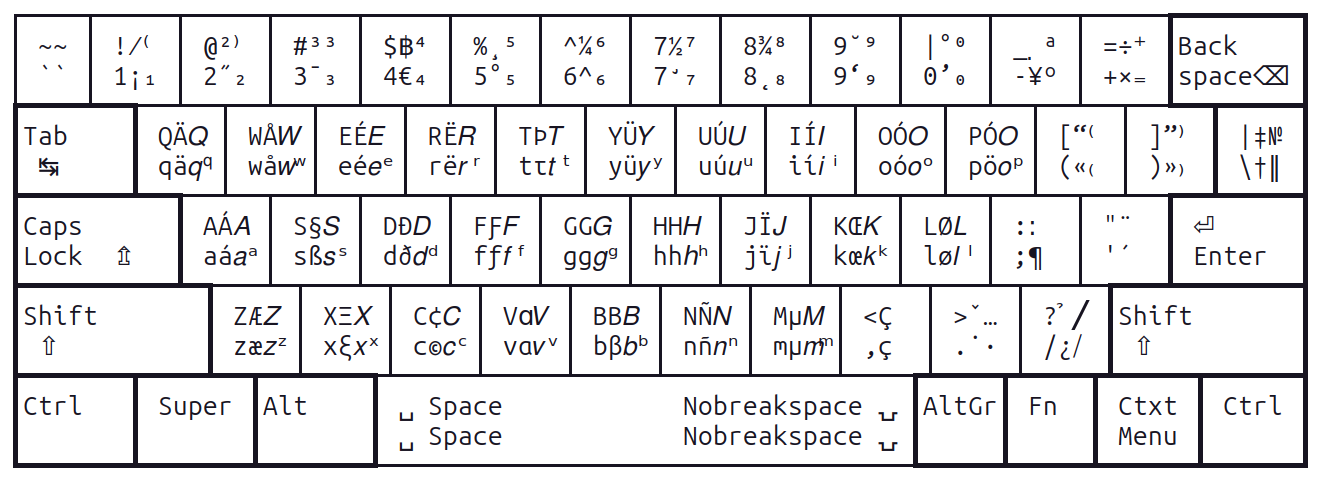
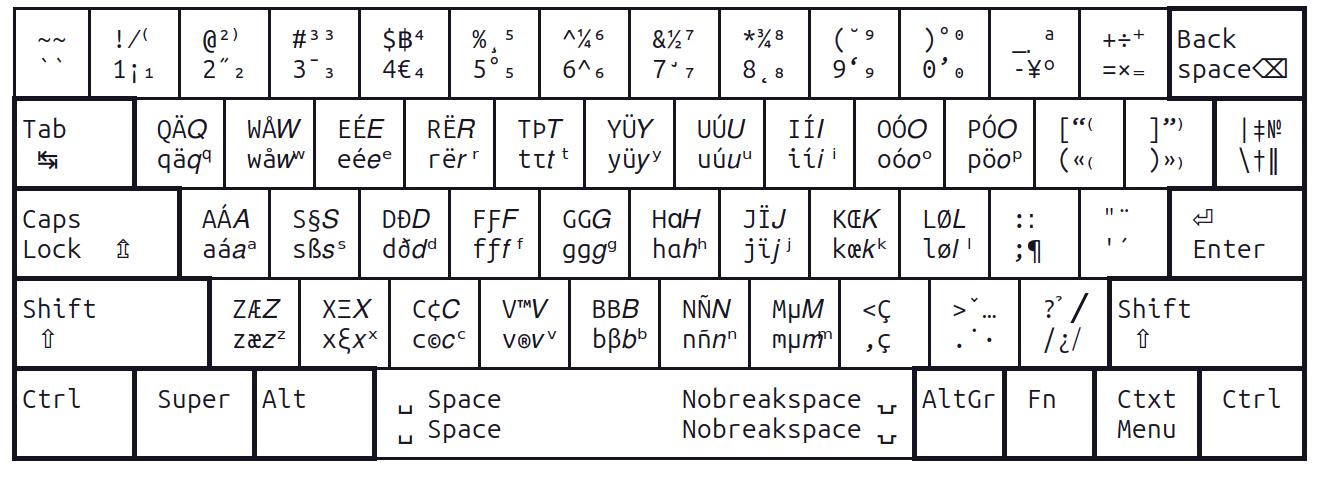
addded registered trademark and trademark, corrected the documents about degree sign

Changed region(s): [[0.0, 0.0, 0.9962, 0.9979], [0.0, 0.8218, 0.0623, 0.8805]]

diff --git a/README.md b/README.md
@@ -34,8 +34,10 @@ These symbols are organized into 4 columns. The first column of symbols is gener
 
 ## Usage
 
+This table only covers the usage of additions to The "English (intl., with AltGr dead keys)" layout.
+
 | Symbol Name                  | How to Type Them                      | Examples                                                           |
-|-----------------------------|---------------------------------------|----------------------------------------------------------------------|
+|-----------------------------|---------------------------------------|---------------------------------------------------------------------|
 | Euro Sign (€)               | <kbd>AltGr</kbd> + <kbd>4</kbd>         | "The price is €50."                                                  |
 | Bitcoin (₿)                 | <kbd>AltGr</kbd> + <kbd>Shift</kbd> + <kbd>4</kbd> | "The current value of Bitcoin is ₿1 = $40,000."                       |
 | Greek Letters (α, ξ)        | (Based on key mapping)                | "The angle α is 60°." "The variable ξ represents..."                  |
@@ -46,8 +48,9 @@ These symbols are organized into 4 columns. The first column of symbols is gener
 | Fractional Slash (⁄)        | <kbd>AltGr</kbd> + <kbd>Shift</kbd> + <kbd>1</kbd> | "The ratio is 1⁄4." "The fraction 1⁄7 represents..."                    |
 | Note Symbols† (†, ‡, §, ‖, ¶)| (Based on key mapping)                | "Refer to the note†." "See the section‡." "Paragraph starts with¶."  |
 | Numero Symbol (№)          | <kbd>Win</kbd> + <kbd>Shift</kbd> + <kbd>\\</kbd> | "Product №12345."                                                    |
-| Cardinal Signs (º, ª)       | <kbd>Win</kbd> + <kbd>Shift</kbd> + <kbd>-</kbd> and <kbd>Win</kbd> + <kbd>-</kbd> | "1º lugar." "2ª posición."                                          |
-| Degree Sign (°)             | <kdb>AltGr</kbd> + <kbd>Shift</kbd> + <kbd>0</kbd>                | "The temperature is 25°." "Calle Mayor 10°, Madrid."                 |
+| Cardinal Signs (º, ª)       | <kbd>Win</kbd> + <kbd>-</kbd> and <kbd>Win</kbd> + <kbd>Shift</kbd> + <kbd>-</kbd> | "1º lugar." "2ª posición."                                          |
+| Degree Sign (°)             | <kbd>AltGr</kbd> + <kbd>Shift</kbd> + <kbd>0</kbd>                | "The temperature is 25°." "Calle Mayor 10°, Madrid."                 |
+| Registered Trademark (®) and Trademark (™) | <kbd>AltGr</kbd> + <kbd>v</kbd>, <kbd>AltGr</kbd> + <kbd>Shift</kbd> + <kbd>v</kbd>                |  Enron®'s NewProduct™              |
 
 † **Note Symbols**: The first four traditional order of [note symbols](https://en.wikipedia.org/wiki/Note_(typography)) in English have been added. The traditional order of these symbols in English is [*](https://en.wikipedia.org/wiki/Asterisk), [†](https://en.wikipedia.org/wiki/Dagger_(typography)), [‡](https://en.wikipedia.org/wiki/Double_dagger_(typography)), [§](https://en.wikipedia.org/wiki/Section_sign), [‖](https://en.wikipedia.org/wiki/Vertical_Bar), [¶](https://en.wikipedia.org/wiki/Pilcrow). The first exists on standard keyboards, the section sign § and the pilcrow sign ¶ existed in "English (intl., with AltGr dead keys)", this project piles the rest 3 symbols on the backslash key.
 
@@ -114,16 +117,16 @@ If your keyboard firmware supports a tap-and-hold feature natively, you could pr
 While the layout aims to enhance the typing experience, there are a few known issues and areas for potential improvement:
 
 - **Superscript Minus**: Currently, there is no superscript minus symbol, because muscular and feminine cardinal is where you would expect superscript minus. This is rarely an issue as superscripts are often used for elliptic curve math, which primarily involves addition.
-- **Trademark and Registered Symbols**: There are currently no mappings for the 'trademark' or 'registered' symbols. One potential solution is to use `alt+shift+'1'` for the trademark symbol and `alt+shift+'2'` for the registered symbol, as there are two ways to produce superscript brackets.
-- **Degree Sign**: There are 2 ways to produce the degree sign (°). Alt+shift+0 typed twice is sufficient for this symbol, so the one on number key 5 is not really needed. This is inherited from "English (intl., with AltGr dead keys)" layout.
-- **Unused Alt Key Combinations**: The combinations `alt+g`, `alt+shift+g`, `alt+h`, `alt+shift+h`, and `alt+m` and `alt+shift+m` currently do not produce any special symbols.
+- **Unused Alt Key Combinations**: The combinations `alt+g`, `alt+shift+g` and `alt+m` and `alt+shift+m` currently do not produce any special symbols.
+- **Insufficient Greek letters**. One suggestion was there should be enough Greek letters to denote the SARS-CoV-2 variants, but there were just too many of them.
 
-These issues are minor and do not significantly impact the overall functionality of the layout. However, they will be considered for future updates and improvements.
+These issues will be considered for future updates and improvements.
 
 ## It's a feature, not a bug
 
 - Superscript O **ᵒ**, and superscript A **ᵃ** can be used for muscular and feminine cardinal **º** and **ª**, so having all of them on a keyboard layout is appears overdsigned. However, often cardinal numbers have underscores in certain fonts, they are visually not replaceable for each other. People who speaks Spanish or Portuguese can tell.
-- Usually capital N followed by muscular cardinal º, when typed together like this Nº, suffices as a substitute of Numero sign №. We kept both anyway because the Numero Sign is special.
+- **Degree Sign**: There are many signs that resemble the look of Degree Sign. The one on number key 5 is the "One True Degree Sign". However, Alt+shift+0 typed twice result in ° which is very similar to the degree sign °. This is inherited from "English (intl., with AltGr dead keys)" layout, and the difference is that the latter is actually the circle on top of Ů. Alternatively, muscular cardinal sign and superscript letter O both look like degree sign, but they are for different purposes.
+- Usually capital N followed by muscular cardinal º, when typed together like this Nº, suffices as a substitute of Numero sign №. We kept both anyway.
 - The Latin Alpha (ɑ) and Copyright (©) symbols have not seen much real life uses. Pity.
 - The combination `super+shift+'q'` produces nothing, because there is no Unicode code point for superscript q, it just doesn't exist. Also, nothing happens with `super` plus period or comma.
 
@@ -137,4 +140,4 @@ U+0000
 U+07A5
 U+0001
 ````
-This shows that 𐞥 is U107A5.
+This shows that 𐞥 is U107A5. You can use this trick to get the unicode codepoint for everything mentioned in this document.
